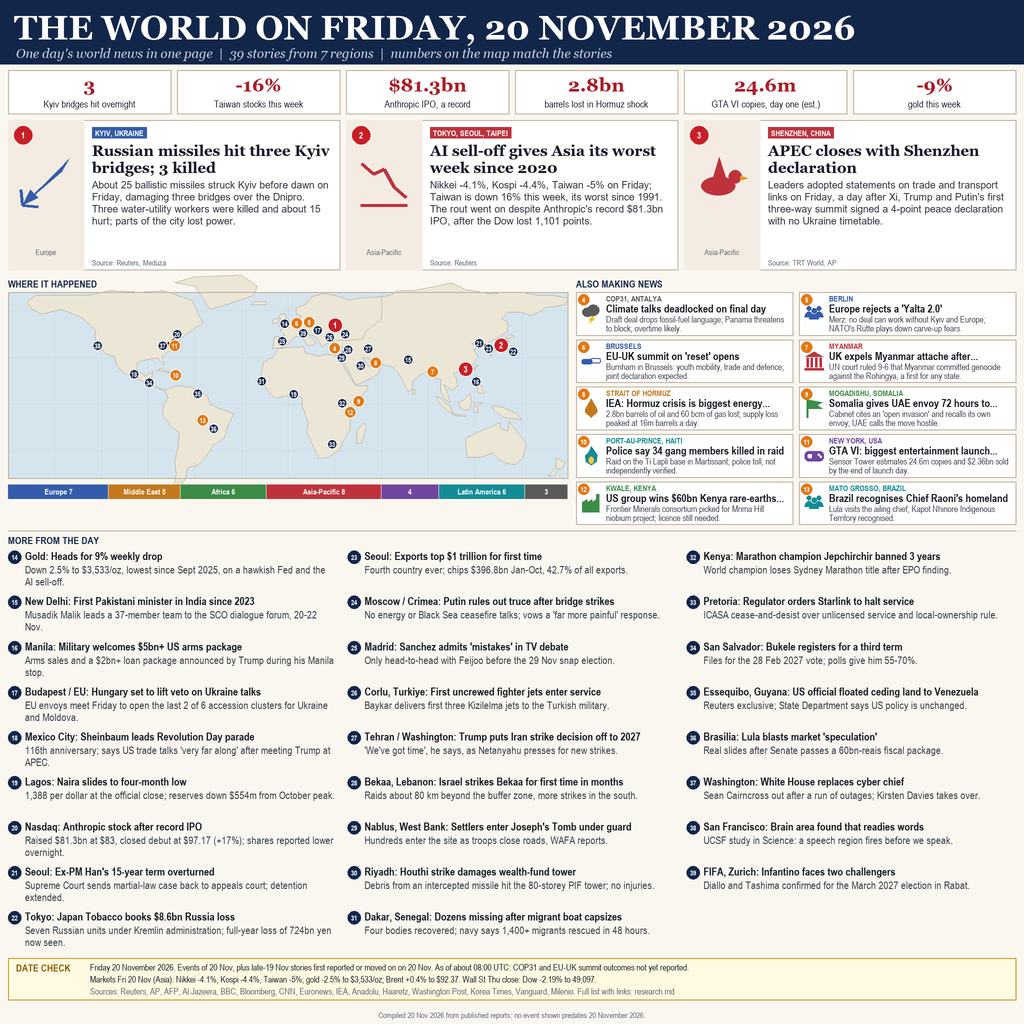
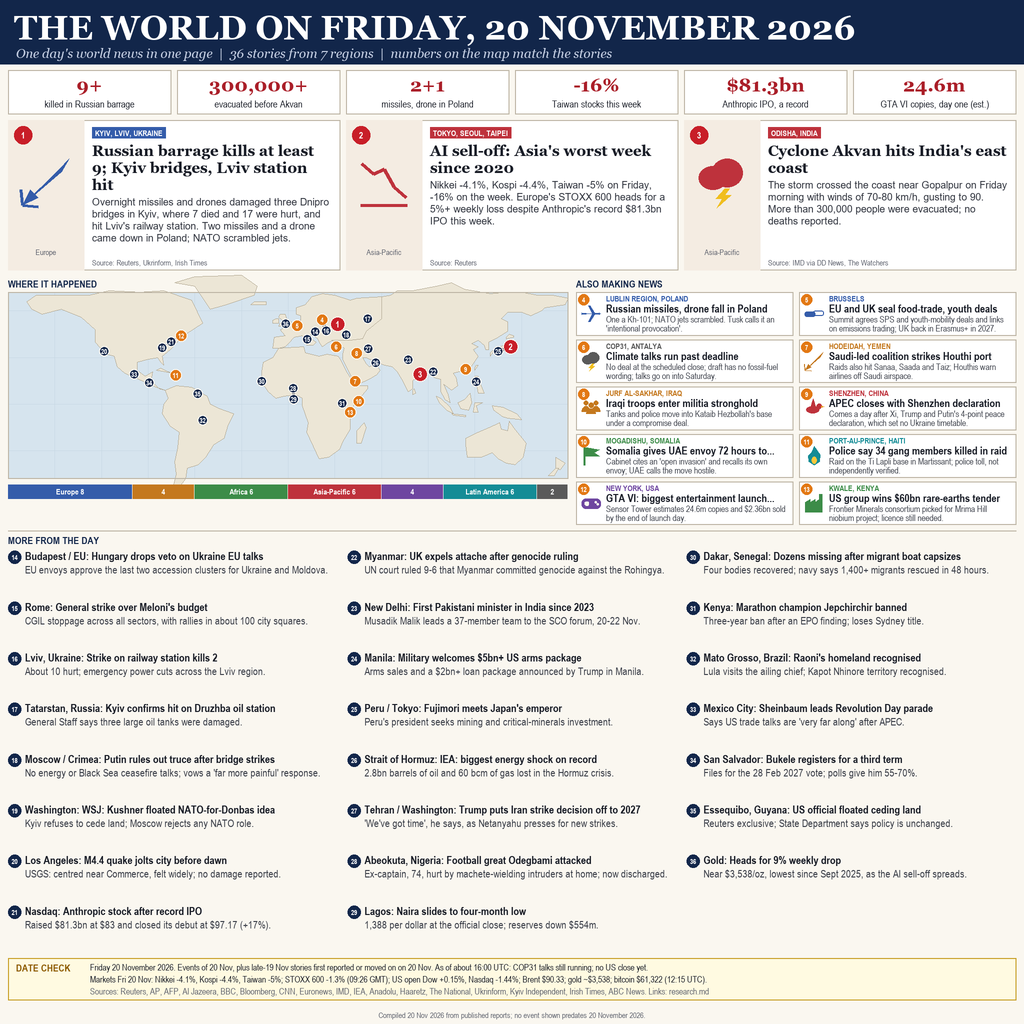
v2: afternoon update - Russian barrage and missiles in Poland, Cyclone Akvan, EU-UK deals, COP31 overtime; drop stale carry-overs

diff --git a/stories.py b/stories.py
@@ -1,45 +1,50 @@
 """The day's stories, Friday 20 November 2026, from research.md (sources and date evidence there).
 
 tier 1 = lead card, 2 = illustrated card, 3 = "more from the day" list.
-Leads are events of 20 Nov itself; late-19 Nov stories are kept only where they were
-first reported, or moved on, on 20 Nov, and are worded that way.
+v2 (about 16:00 UTC): leads are 20 Nov events; pending morning stories carry their outcome;
+weak late-19 Nov carry-overs dropped. Late-19 Nov stories kept only where first reported,
+or moved on, on 20 Nov, and worded that way.
 """
 
 STORIES = [
     # ---- leads
-    {"tier": 1, "region": "Europe", "place": "Kyiv, Ukraine", "lat": 50.45, "lon": 30.52, "icon": "missile",
-     "head": "Russian missiles hit three Kyiv bridges; 3 killed",
-     "detail": "About 25 ballistic missiles struck Kyiv before dawn on Friday, damaging three bridges over the Dnipro. Three water-utility workers were killed and about 15 hurt; parts of the city lost power.",
-     "src": "Reuters, Meduza"},
+    {"tier": 1, "region": "Europe", "place": "Kyiv, Lviv, Ukraine", "lat": 50.45, "lon": 30.52, "icon": "missile",
+     "head": "Russian barrage kills at least 9; Kyiv bridges, Lviv station hit",
+     "detail": "Overnight missiles and drones damaged three Dnipro bridges in Kyiv, where 7 died and 17 were hurt, and hit Lviv's railway station. Two missiles and a drone came down in Poland; NATO scrambled jets.",
+     "src": "Reuters, Ukrinform, Irish Times"},
     {"tier": 1, "region": "Asia-Pacific", "place": "Tokyo, Seoul, Taipei", "lat": 35.68, "lon": 139.69, "icon": "down",
-     "head": "AI sell-off gives Asia its worst week since 2020",
-     "detail": "Nikkei -4.1%, Kospi -4.4%, Taiwan -5% on Friday; Taiwan is down 16% this week, its worst since 1991. The rout went on despite Anthropic's record $81.3bn IPO, after the Dow lost 1,101 points.",
+     "head": "AI sell-off: Asia's worst week since 2020",
+     "detail": "Nikkei -4.1%, Kospi -4.4%, Taiwan -5% on Friday, -16% on the week. Europe's STOXX 600 heads for a 5%+ weekly loss despite Anthropic's record $81.3bn IPO this week.",
      "src": "Reuters"},
-    {"tier": 1, "region": "Asia-Pacific", "place": "Shenzhen, China", "lat": 22.54, "lon": 114.06, "icon": "dove",
-     "head": "APEC closes with Shenzhen declaration",
-     "detail": "Leaders adopted statements on trade and transport links on Friday, a day after Xi, Trump and Putin's first three-way summit signed a 4-point peace declaration with no Ukraine timetable.",
-     "src": "TRT World, AP"},
+    {"tier": 1, "region": "Asia-Pacific", "place": "Odisha, India", "lat": 19.26, "lon": 84.91, "icon": "storm",
+     "head": "Cyclone Akvan hits India's east coast",
+     "detail": "The storm crossed the coast near Gopalpur on Friday morning with winds of 70-80 km/h, gusting to 90. More than 300,000 people were evacuated; no deaths reported.",
+     "src": "IMD via DD News, The Watchers"},
     # ---- illustrated cards
-    {"tier": 2, "region": "Global", "place": "COP31, Antalya", "lat": 36.89, "lon": 30.71, "icon": "storm",
-     "head": "Climate talks deadlocked on final day",
-     "detail": "Draft deal drops fossil-fuel language; Panama threatens to block; overtime likely.",
-     "src": "Rappler"},
-    {"tier": 2, "region": "Europe", "place": "Berlin", "lat": 52.52, "lon": 13.40, "icon": "people",
-     "head": "Europe rejects a 'Yalta 2.0'",
-     "detail": "Merz: no deal can work without Kyiv and Europe; NATO's Rutte plays down carve-up fears.",
-     "src": "Euronews"},
+    {"tier": 2, "region": "Europe", "place": "Lublin region, Poland", "lat": 50.60, "lon": 22.70, "icon": "plane",
+     "head": "Russian missiles, drone fall in Poland",
+     "detail": "One a Kh-101; NATO jets scrambled. Tusk calls it an 'intentional provocation'.",
+     "src": "Irish Times"},
     {"tier": 2, "region": "Europe", "place": "Brussels", "lat": 50.85, "lon": 4.35, "icon": "handshake",
-     "head": "EU-UK summit on 'reset' opens",
-     "detail": "Burnham in Brussels: youth mobility, trade and defence; joint declaration expected.",
-     "src": "Bloomberg"},
-    {"tier": 2, "region": "Asia-Pacific", "place": "Myanmar", "lat": 20.80, "lon": 93.00, "icon": "court",
-     "head": "UK expels Myanmar attache after genocide ruling",
-     "detail": "UN court ruled 9-6 that Myanmar committed genocide against the Rohingya, a first for any state.",
-     "src": "Al Jazeera"},
-    {"tier": 2, "region": "Middle East", "place": "Strait of Hormuz", "lat": 26.57, "lon": 56.25, "icon": "oil",
-     "head": "IEA: Hormuz crisis is biggest energy shock ever",
-     "detail": "2.8bn barrels of oil and 60 bcm of gas lost; supply loss peaked at 16m barrels a day.",
-     "src": "IEA via Xinhua"},
+     "head": "EU and UK seal food-trade, youth deals",
+     "detail": "Summit agrees SPS and youth-mobility deals and links on emissions trading; UK back in Erasmus+ in 2027.",
+     "src": "EU-UK joint statement, Reuters"},
+    {"tier": 2, "region": "Global", "place": "COP31, Antalya", "lat": 36.89, "lon": 30.71, "icon": "storm",
+     "head": "Climate talks run past deadline",
+     "detail": "No deal at the scheduled close; draft has no fossil-fuel wording; talks go on into Saturday.",
+     "src": "Reuters, Rappler"},
+    {"tier": 2, "region": "Middle East", "place": "Hodeidah, Yemen", "lat": 14.80, "lon": 42.95, "icon": "missile",
+     "head": "Saudi-led coalition strikes Houthi port",
+     "detail": "Raids also hit Sanaa, Saada and Taiz; Houthis warn airlines off Saudi airspace.",
+     "src": "AP, Gulf News"},
+    {"tier": 2, "region": "Middle East", "place": "Jurf al-Sakhar, Iraq", "lat": 32.85, "lon": 44.10, "icon": "people",
+     "head": "Iraqi troops enter militia stronghold",
+     "detail": "Tanks and police move into Kataib Hezbollah's base under a compromise deal.",
+     "src": "The National"},
+    {"tier": 2, "region": "Asia-Pacific", "place": "Shenzhen, China", "lat": 22.54, "lon": 114.06, "icon": "dove",
+     "head": "APEC closes with Shenzhen declaration",
+     "detail": "Comes a day after Xi, Trump and Putin's 4-point peace declaration, which set no Ukraine timetable.",
+     "src": "TRT World, AP"},
     {"tier": 2, "region": "Africa", "place": "Mogadishu, Somalia", "lat": 2.05, "lon": 45.32, "icon": "flag",
      "head": "Somalia gives UAE envoy 72 hours to leave",
      "detail": "Cabinet cites an 'open invasion' and recalls its own envoy; UAE calls the move hostile.",
@@ -52,107 +57,93 @@ STORIES = [
      "head": "GTA VI: biggest entertainment launch (est.)",
      "detail": "Sensor Tower estimates 24.6m copies and $2.36bn sold by the end of launch day.",
      "src": "The Week"},
-    {"tier": 2, "region": "Africa", "place": "Kwale, Kenya", "lat": -4.48, "lon": 39.26, "icon": "factory",
-     "head": "US group wins $60bn Kenya rare-earths tender",
-     "detail": "Frontier Minerals consortium picked for Mrima Hill niobium project; licence still needed.",
-     "src": "BBC, Nile Post"},
-    {"tier": 2, "region": "Latin America", "place": "Mato Grosso, Brazil", "lat": -10.23, "lon": -54.98, "icon": "people",
-     "head": "Brazil recognises Chief Raoni's homeland",
-     "detail": "Lula visits the ailing chief; Kapot Nhinore Indigenous Territory recognised.",
-     "src": "AP"},
     # ---- more from the day
-    {"tier": 3, "region": "Global", "place": "Gold", "lat": 51.51, "lon": -0.09, "icon": "down",
-     "head": "Heads for 9% weekly drop",
-     "detail": "Down 2.5% to $3,533/oz, lowest since Sept 2025, on a hawkish Fed and the AI sell-off.", "src": "Reuters"},
-    {"tier": 3, "region": "Asia-Pacific", "place": "New Delhi", "lat": 28.61, "lon": 77.21, "icon": "people",
-     "head": "First Pakistani minister in India since 2023",
-     "detail": "Musadik Malik leads a 37-member team to the SCO dialogue forum, 20-22 Nov.", "src": "Anadolu"},
-    {"tier": 3, "region": "Asia-Pacific", "place": "Manila", "lat": 14.60, "lon": 120.98, "icon": "plane",
-     "head": "Military welcomes $5bn+ US arms package",
-     "detail": "Arms sales and a $2bn+ loan package announced by Trump during his Manila stop.", "src": "Daily Tribune"},
     {"tier": 3, "region": "Europe", "place": "Budapest / EU", "lat": 47.50, "lon": 19.04, "icon": "vote",
-     "head": "Hungary set to lift veto on Ukraine talks",
-     "detail": "EU envoys meet Friday to open the last 2 of 6 accession clusters for Ukraine and Moldova.", "src": "Euronews"},
-    {"tier": 3, "region": "Latin America", "place": "Mexico City", "lat": 19.43, "lon": -99.13, "icon": "flag",
-     "head": "Sheinbaum leads Revolution Day parade",
-     "detail": "116th anniversary; says US trade talks 'very far along' after meeting Trump at APEC.", "src": "Milenio"},
-    {"tier": 3, "region": "Africa", "place": "Lagos", "lat": 6.52, "lon": 3.38, "icon": "down",
-     "head": "Naira slides to four-month low",
-     "detail": "1,388 per dollar at the official close; reserves down $554m from October peak.", "src": "Vanguard"},
-    {"tier": 3, "region": "North America", "place": "Nasdaq", "lat": 40.76, "lon": -73.98, "icon": "chip",
-     "head": "Anthropic stock after record IPO",
-     "detail": "Raised $81.3bn at $83, closed debut at $97.17 (+17%); shares reported lower overnight.", "src": "CNN"},
-    {"tier": 3, "region": "Asia-Pacific", "place": "Seoul", "lat": 37.57, "lon": 126.98, "icon": "court",
-     "head": "Ex-PM Han's 15-year term overturned",
-     "detail": "Supreme Court sends martial-law case back to appeals court; detention extended.", "src": "Korea Times"},
-    {"tier": 3, "region": "Asia-Pacific", "place": "Tokyo", "lat": 35.68, "lon": 139.69, "icon": "factory",
-     "head": "Japan Tobacco books $8.6bn Russia loss",
-     "detail": "Seven Russian units under Kremlin administration; full-year loss of 724bn yen now seen.", "src": "Reuters"},
-    {"tier": 3, "region": "Asia-Pacific", "place": "Seoul", "lat": 37.57, "lon": 126.98, "icon": "ship",
-     "head": "Exports top $1 trillion for first time",
-     "detail": "Fourth country ever; chips $396.8bn Jan-Oct, 42.7% of all exports.", "src": "Seoul Economic Daily"},
+     "head": "Hungary drops veto on Ukraine EU talks",
+     "detail": "EU envoys approve the last two accession clusters for Ukraine and Moldova.", "src": "Euronews"},
+    {"tier": 3, "region": "Europe", "place": "Rome", "lat": 41.89, "lon": 12.50, "icon": "people",
+     "head": "General strike over Meloni's budget",
+     "detail": "CGIL stoppage across all sectors, with rallies in about 100 city squares.", "src": "Reuters"},
+    {"tier": 3, "region": "Europe", "place": "Lviv, Ukraine", "lat": 49.82, "lon": 23.98, "icon": "fire",
+     "head": "Strike on railway station kills 2",
+     "detail": "About 10 hurt; emergency power cuts across the Lviv region.", "src": "Ukrinform"},
+    {"tier": 3, "region": "Europe", "place": "Tatarstan, Russia", "lat": 55.00, "lon": 51.00, "icon": "oil",
+     "head": "Kyiv confirms hit on Druzhba oil station",
+     "detail": "General Staff says three large oil tanks were damaged.", "src": "Kyiv Independent"},
     {"tier": 3, "region": "Europe", "place": "Moscow / Crimea", "lat": 45.31, "lon": 36.51, "icon": "missile",
      "head": "Putin rules out truce after bridge strikes",
      "detail": "No energy or Black Sea ceasefire talks; vows a 'far more painful' response.", "src": "Kyiv Independent"},
-    {"tier": 3, "region": "Europe", "place": "Madrid", "lat": 40.42, "lon": -3.70, "icon": "vote",
-     "head": "Sanchez admits 'mistakes' in TV debate",
-     "detail": "Only head-to-head with Feijoo before the 29 Nov snap election.", "src": "AFP"},
-    {"tier": 3, "region": "Europe", "place": "Corlu, Turkiye", "lat": 41.16, "lon": 27.80, "icon": "plane",
-     "head": "First uncrewed fighter jets enter service",
-     "detail": "Baykar delivers first three Kizilelma jets to the Turkish military.", "src": "AeroTime"},
+    {"tier": 3, "region": "North America", "place": "Washington", "lat": 38.90, "lon": -77.04, "icon": "handshake",
+     "head": "WSJ: Kushner floated NATO-for-Donbas idea",
+     "detail": "Kyiv refuses to cede land; Moscow rejects any NATO role.", "src": "WSJ via Kyiv Post"},
+    {"tier": 3, "region": "North America", "place": "Los Angeles", "lat": 34.00, "lon": -118.16, "icon": "quake",
+     "head": "M4.4 quake jolts city before dawn",
+     "detail": "USGS: centred near Commerce, felt widely; no damage reported.", "src": "ABC News"},
+    {"tier": 3, "region": "North America", "place": "Nasdaq", "lat": 40.76, "lon": -73.98, "icon": "chip",
+     "head": "Anthropic stock after record IPO",
+     "detail": "Raised $81.3bn at $83 and closed its debut at $97.17 (+17%).", "src": "CNN"},
+    {"tier": 3, "region": "Asia-Pacific", "place": "Myanmar", "lat": 20.80, "lon": 93.00, "icon": "court",
+     "head": "UK expels attache after genocide ruling",
+     "detail": "UN court ruled 9-6 that Myanmar committed genocide against the Rohingya.", "src": "Al Jazeera"},
+    {"tier": 3, "region": "Asia-Pacific", "place": "New Delhi", "lat": 28.61, "lon": 77.21, "icon": "people",
+     "head": "First Pakistani minister in India since 2023",
+     "detail": "Musadik Malik leads a 37-member team to the SCO forum, 20-22 Nov.", "src": "Anadolu"},
+    {"tier": 3, "region": "Asia-Pacific", "place": "Manila", "lat": 14.60, "lon": 120.98, "icon": "plane",
+     "head": "Military welcomes $5bn+ US arms package",
+     "detail": "Arms sales and a $2bn+ loan package announced by Trump in Manila.", "src": "Daily Tribune"},
+    {"tier": 3, "region": "Latin America", "place": "Peru / Tokyo", "lat": 35.30, "lon": 138.60, "icon": "handshake",
+     "head": "Fujimori meets Japan's emperor",
+     "detail": "Peru's president seeks mining and critical-minerals investment.", "src": "Rio Times"},
+    {"tier": 3, "region": "Middle East", "place": "Strait of Hormuz", "lat": 26.57, "lon": 56.25, "icon": "oil",
+     "head": "IEA: biggest energy shock on record",
+     "detail": "2.8bn barrels of oil and 60 bcm of gas lost in the Hormuz crisis.", "src": "IEA via Xinhua"},
     {"tier": 3, "region": "Middle East", "place": "Tehran / Washington", "lat": 35.69, "lon": 51.39, "icon": "missile",
      "head": "Trump puts Iran strike decision off to 2027",
      "detail": "'We've got time', he says, as Netanyahu presses for new strikes.", "src": "Haaretz"},
-    {"tier": 3, "region": "Middle East", "place": "Bekaa, Lebanon", "lat": 33.85, "lon": 35.90, "icon": "fire",
-     "head": "Israel strikes Bekaa for first time in months",
-     "detail": "Raids about 80 km beyond the buffer zone, more strikes in the south.", "src": "Haaretz"},
-    {"tier": 3, "region": "Middle East", "place": "Nablus, West Bank", "lat": 32.21, "lon": 35.28, "icon": "people",
-     "head": "Settlers enter Joseph's Tomb under guard",
-     "detail": "Hundreds enter the site as troops close roads, WAFA reports.", "src": "WAFA"},
-    {"tier": 3, "region": "Middle East", "place": "Riyadh", "lat": 24.76, "lon": 46.64, "icon": "missile",
-     "head": "Houthi strike damages wealth-fund tower",
-     "detail": "Debris from an intercepted missile hit the 80-storey PIF tower; no injuries.", "src": "The National"},
+    {"tier": 2, "region": "Africa", "place": "Kwale, Kenya", "lat": -4.48, "lon": 39.26, "icon": "factory",
+     "head": "US group wins $60bn rare-earths tender",
+     "detail": "Frontier Minerals consortium picked for Mrima Hill niobium project; licence still needed.", "src": "BBC, Nile Post"},
+    {"tier": 3, "region": "Africa", "place": "Abeokuta, Nigeria", "lat": 7.16, "lon": 3.35, "icon": "ball",
+     "head": "Football great Odegbami attacked",
+     "detail": "Ex-captain, 74, hurt by machete-wielding intruders at home; now discharged.", "src": "Daily Trust"},
+    {"tier": 3, "region": "Africa", "place": "Lagos", "lat": 6.52, "lon": 3.38, "icon": "down",
+     "head": "Naira slides to four-month low",
+     "detail": "1,388 per dollar at the official close; reserves down $554m.", "src": "Vanguard"},
     {"tier": 3, "region": "Africa", "place": "Dakar, Senegal", "lat": 14.65, "lon": -17.13, "icon": "ship",
      "head": "Dozens missing after migrant boat capsizes",
      "detail": "Four bodies recovered; navy says 1,400+ migrants rescued in 48 hours.", "src": "Reuters"},
     {"tier": 3, "region": "Africa", "place": "Kenya", "lat": 0.20, "lon": 35.10, "icon": "trophy",
-     "head": "Marathon champion Jepchirchir banned 3 years",
-     "detail": "World champion loses Sydney Marathon title after EPO finding.", "src": "Al Jazeera"},
-    {"tier": 3, "region": "Africa", "place": "Pretoria", "lat": -25.75, "lon": 28.19, "icon": "space",
-     "head": "Regulator orders Starlink to halt service",
-     "detail": "ICASA cease-and-desist over unlicensed service and local-ownership rule.", "src": "Broadcast Media Africa"},
+     "head": "Marathon champion Jepchirchir banned",
+     "detail": "Three-year ban after an EPO finding; loses Sydney title.", "src": "Al Jazeera"},
+    {"tier": 3, "region": "Latin America", "place": "Mato Grosso, Brazil", "lat": -10.23, "lon": -54.98, "icon": "people",
+     "head": "Raoni's homeland recognised",
+     "detail": "Lula visits the ailing chief; Kapot Nhinore territory recognised.", "src": "AP"},
+    {"tier": 3, "region": "Latin America", "place": "Mexico City", "lat": 19.43, "lon": -99.13, "icon": "flag",
+     "head": "Sheinbaum leads Revolution Day parade",
+     "detail": "Says US trade talks are 'very far along' after APEC.", "src": "Milenio"},
     {"tier": 3, "region": "Latin America", "place": "San Salvador", "lat": 13.69, "lon": -89.22, "icon": "vote",
      "head": "Bukele registers for a third term",
      "detail": "Files for the 28 Feb 2027 vote; polls give him 55-70%.", "src": "Reuters"},
     {"tier": 3, "region": "Latin America", "place": "Essequibo, Guyana", "lat": 6.80, "lon": -58.16, "icon": "flag",
-     "head": "US official floated ceding land to Venezuela",
-     "detail": "Reuters exclusive; State Department says US policy is unchanged.", "src": "Reuters"},
-    {"tier": 3, "region": "Latin America", "place": "Brasilia", "lat": -15.79, "lon": -47.88, "icon": "money",
-     "head": "Lula blasts market 'speculation'",
-     "detail": "Real slides after Senate passes a 60bn-reais fiscal package.", "src": "Reuters"},
-    {"tier": 3, "region": "North America", "place": "Washington", "lat": 38.90, "lon": -77.04, "icon": "chip",
-     "head": "White House replaces cyber chief",
-     "detail": "Sean Cairncross out after a run of outages; Kirsten Davies takes over.", "src": "Washington Post"},
-    {"tier": 3, "region": "North America", "place": "San Francisco", "lat": 37.76, "lon": -122.46, "icon": "flask",
-     "head": "Brain area found that readies words",
-     "detail": "UCSF study in Science: a speech region fires before we speak.", "src": "Interesting Engineering"},
-    {"tier": 3, "region": "Global", "place": "FIFA, Zurich", "lat": 47.38, "lon": 8.57, "icon": "ball",
-     "head": "Infantino faces two challengers",
-     "detail": "Diallo and Tashima confirmed for the March 2027 election in Rabat.", "src": "Al Jazeera"},
+     "head": "US official floated ceding land",
+     "detail": "Reuters exclusive; State Department says policy is unchanged.", "src": "Reuters"},
+    {"tier": 3, "region": "Global", "place": "Gold", "lat": 51.51, "lon": -0.09, "icon": "down",
+     "head": "Heads for 9% weekly drop",
+     "detail": "Near $3,538/oz, lowest since Sept 2025, as the AI sell-off spreads.", "src": "Reuters"},
 ]
 
 KEYFIGS = [
-    ("3", "Kyiv bridges hit overnight"),
+    ("9+", "killed in Russian barrage"),
+    ("300,000+", "evacuated before Akvan"),
+    ("2+1", "missiles, drone in Poland"),
     ("-16%", "Taiwan stocks this week"),
     ("$81.3bn", "Anthropic IPO, a record"),
-    ("2.8bn", "barrels lost in Hormuz shock"),
     ("24.6m", "GTA VI copies, day one (est.)"),
-    ("-9%", "gold this week"),
 ]
 
 DATE_LINE = ("Friday 20 November 2026. Events of 20 Nov, plus late-19 Nov stories first reported or moved on "
-             "on 20 Nov. As of about 08:00 UTC: COP31 and EU-UK summit outcomes not yet reported.")
-MARKETS = ("Markets Fri 20 Nov (Asia): Nikkei -4.1%, Kospi -4.4%, Taiwan -5%; gold -2.5% to $3,533/oz; "
-           "Brent +0.4% to $92.37. Wall St Thu close: Dow -2.19% to 49,097.")
-SOURCES = ("Reuters, AP, AFP, Al Jazeera, BBC, Bloomberg, CNN, Euronews, IEA, Anadolu, Haaretz, "
-           "Washington Post, Korea Times, Vanguard, Milenio. Full list with links: research.md")
+             "on 20 Nov. As of about 16:00 UTC: COP31 talks still running; no US close yet.")
+MARKETS = ("Markets Fri 20 Nov: Nikkei -4.1%, Kospi -4.4%, Taiwan -5%; STOXX 600 -1.3% (09:26 GMT); US open "
+           "Dow +0.15%, Nasdaq -1.44%; Brent $90.33; gold ~$3,538; bitcoin $61,322 (12:15 UTC).")
+SOURCES = ("Reuters, AP, AFP, Al Jazeera, BBC, Bloomberg, CNN, Euronews, IMD, IEA, Anadolu, Haaretz, "
+           "The National, Ukrinform, Kyiv Independent, Irish Times, ABC News. Links: research.md")

diff --git a/render.py b/render.py
@@ -288,6 +288,7 @@ def tag(d, x, y, s):
 def render(out):
     img = Image.new("RGB", (W * S, H * S), PAPER)
     d = ImageDraw.Draw(img)
+    STORIES.sort(key=lambda s: s["tier"])  # stable: numbers run leads, cards, list
     for i, s in enumerate(STORIES, 1):
         s["n"] = i
     leads = [s for s in STORIES if s["tier"] == 1]

diff --git a/research.md b/research.md
@@ -92,3 +92,68 @@ Fri 20 Nov Asian session (Reuters via MarketScreener, URL in id 5): Nikkei -4.1%
 - Senegal (id 36): passenger count disputed (50 vs ~100); toll may rise.
 - Sanon verdict (id 48) sourced only to the Anadolu briefing and an Inquirer headline; no direct wire URL found.
 - Science item (id 51) is from a secondary outlet; journal and date (Science, 19 Nov) stated there but not checked against Science directly.
+
+## Update ~16:00 UTC 20 Nov
+
+Searched ~15:40-16:05 UTC 20 Nov 2026. "time seen" = when the item was read (UTC); outlet timestamps given where stated.
+
+### Outcomes
+
+| morning id | new status | source outlet | URL | time seen |
+|---|---|---|---|---|
+| 7 (COP31) | NO DEAL YET - OVERTIME. Official close 15:00 GMT passed; Bowen: "won't be leaving the rooms of Antalya until we have that consensus", talks through the night, negotiators expect Saturday. Thursday draft still latest: no fossil fuel language, $120bn adaptation target dropped, keeps 35% electricity-share-by-2035 goal. Panama threatens formal objection. Turkey separately claims $26bn+ in side deals (incl. preliminary $15bn China renewables deal) | Deccan Chronicle; Cyprus Mail (Reuters) | https://deccanchronicle.com/world/cop31-talks-run-overtime-as-nations-clash-over-fossil-fuel-future-2006354 ; https://cyprus-mail.com/2026/11/20/turkey-wins-26bn-in-deals-as-cop31-struggles-for-agreement | ~15:45 |
+| 25 (EU-UK summit) | DONE. Burnham, von der Leyen, Costa agree reset deals: agrifood/SPS (fewer border checks and certificates), youth mobility scheme for under-31s, progress on linking emissions trading schemes; joint statement sets timetable for entry into force; UK joins Erasmus+ from 2027; tuition-fee deal to be concluded within 6 months. Defence: no specific new item found. Scheme cap disputed (100k vs 200k) | TVP World (Reuters); The PIE News; Personnel Today | https://tvpworld.com/96585733/uk-eu-launch-reset-with-food-and-youth-mobility-deals ; https://thepienews.com/200k-uk-eu-youth-mobility-places-agreed-as-tuition-fee-decision-delayed/ | ~15:40 |
+| 26 (Hungary veto) | DONE. Hungary dropped its block on 20 Nov morning; Coreper (EU ambassadors) approved screening results for clusters 4 and 5 for Ukraine and Moldova. Formal opening at intergovernmental conferences, possibly December 2026 | European Pravda (Eurointegration); bne IntelliNews | https://www.eurointegration.com.ua/eng/news/2026/11/20/7250427/ ; https://www.intellinews.com/hungary-lifts-block-on-last-eu-accession-clusters-for-ukraine-moldova-486813/ | ~15:40 |
+| 4 (Kyiv bridges) | TOLL UP: Kyiv 7 dead, 17 injured (Klitschko / Patrol Police; Interfax-Ukraine 15:32 local = 13:32 UTC); at least 9 dead across Ukraine (Kyiv Independent). Bridges damaged: Podilsko-Voskresenskyi, Pivdennyi (Southern, hit again after 17 Nov), Darnytskyi. Air Force: 82 of 84 missiles and 380 drones downed. Also 2 killed at Lviv station (new id 56) | Interfax-Ukraine; Kyiv Independent | https://en.interfax.com.ua/news/general/1239968.html ; https://kyivindependent.com/russia-launches-mass-missile-attack-against-ukraine-after-putin-vows-revenge/ | ~15:45 |
+| 5 / 14 / 45 (markets) | Europe: STOXX 600 -1.3% to 630.22 at 09:26 GMT, heading for >5% weekly loss (worst since March); no close found yet. US open mixed: Dow slightly up, Nasdaq -1.4%. Gold extends fall (~$3,538). See Markets (latest) | Yahoo Finance (Reuters); Business Upturn | https://finance.yahoo.com/markets/world-indices/articles/european-shares-head-steepest-weekly-082527441.html ; https://businessupturn.com/usa/money/us-markets/us-stocks-mixed-at-open-as-nasdaq-falls-and-dow-edges-higher/ | ~15:50 |
+| 23 / 27 (Putin, Europe) | Context: Berlin Coalition of the Willing statement (19 Nov; Germany, France, UK, Ukraine) asked Russia for a winter energy truce; Putin rejected it the same day, then the overnight strikes came | Ukrinform | https://www.ukrinform.net/rubric-polytics/4186635-coalition-of-the-willing-leaders-urge-russia-to-agree-to-winter-energy-truce.html | ~15:55 |
+
+### New stories
+
+| id | rank | region | country/place | lat | lon | headline | detail | source outlet | source URL | date evidence |
+|---|---|---|---|---|---|---|---|---|---|---|
+| 52 | LEAD-CANDIDATE | Europe | Poland, Nowy Lipowiec (Lublin region, SE Poland) | 50.60 | 22.70 | Russian missiles and drone violate Polish airspace | 2 missiles (one a Kh-101) + jet drone came down in SE Poland; NATO jets scrambled; Tusk: "intentional provocation" | Irish Times | https://www.irishtimes.com/world/europe/2026/11/20/nato-jets-scrambled-after-russian-missiles-and-drone-hit-poland-during-attacks-on-ukraine/ | 20 Nov, first alerts 01:40 local; URL 2026/11/20 |
+| 53 | LEAD-CANDIDATE | Middle East | Yemen, Hodeidah | 14.80 | 42.95 | Saudi-led coalition strikes Yemen's Hodeidah port | "Special operation" also hits Sanaa, Saada, Taiz; Houthis warn airlines off Saudi airspace, threaten Jeddah | Local10 (AP) / Gulf News | https://www.local10.com/news/world/2026/11/20/saudi-arabia-attacks-yemens-houthis-and-intercepts-more-missiles-and-drones-and-other-mideast-news/ | Fri 20 Nov; URL 2026/11/20 |
+| 54 | SECONDARY | Asia-Pacific | India, Gopalpur (Odisha) | 19.26 | 84.91 | Cyclone Akvan hits Odisha; 300,000+ evacuated | Crossed coast near Gopalpur ~02:00-03:00 UTC as cyclonic storm, 70-80 km/h, gusts 90; no deaths reported | The Watchers / DD News | https://watchers.news/2026/11/20/cyclone-akvan-landfall-gopalpur-november-20-2026-deep-depression/ | Landfall 20 Nov ~07:30-08:30 IST |
+| 55 | SECONDARY | Middle East | Iraq, Jurf al-Sakhar (Babil) | 32.85 | 44.10 | Iraqi troops enter Kataib Hezbollah stronghold | Tanks, police deploy under compromise deal; PM al-Zaidi cites oil smuggling; group says it is not leaving | The National | https://www.thenationalnews.com/news/mena/2026/11/20/iraqi-security-forces-move-into-iran-backed-militia-stronghold-of-jurf-al-sakhar/ | Fri 20 Nov; URL 2026/11/20 |
+| 56 | SECONDARY | Europe | Ukraine, Lviv (Sknyliv station) | 49.82 | 23.98 | Russian strike on Lviv rail station kills 2 | Ticket terminal hit, ~10 hurt; emergency power cuts in Lviv region; same overnight barrage as Kyiv | Ukrinform | https://www.ukrinform.net/rubric-ato/4186678-two-killed-four-injured-in-russian-attack-on-railway-station-in-lviv.html | Morning 20 Nov |
+| 57 | SECONDARY | Europe | Italy, Rome | 41.89 | 12.50 | Italy hit by general strike over Meloni budget | CGIL nationwide strike, all sectors; rallies in ~100 squares; second national stoppage in weeks | Global Banking & Finance (Reuters) | https://www.globalbankingandfinance.com/thousands-protest-across-italy-strike-over-wages-public/ | Strike day Fri 20 Nov |
+| 58 | SECONDARY | North America | USA, Commerce / Los Angeles | 34.00 | -118.16 | M4.4 quake jolts Los Angeles before dawn | USGS: 03:25 PT near Commerce, ~10 mi deep; felt to Lancaster and Poway; no damage reported | ABC News | https://abcnews.com/US/magnitude-44-earthquake-hits-downtown-los-angeles/story?id=138315998 | 20 Nov 03:25 PT (11:25 UTC) |
+| 59 | also | Europe | USA / Ukraine (envoy talks) | 38.90 | -77.04 | WSJ: Kushner floated NATO for Ukraine for Donbas | Envoys raised membership if Kyiv cedes territory; Kyiv refuses to cede, Moscow rejects any NATO role | Kyiv Post | https://www.kyivpost.com/post/90709 | WSJ report 19-20 Nov; widely carried 20 Nov |
+| 60 | also | Europe | Russia, Tatarstan (Druzhba pumping station) | 55.00 | 51.00 | Ukraine confirms strike on Druzhba oil station | General Staff: 19 Nov hit damaged 3 large oil storage tanks in Tatarstan | Kyiv Independent | https://kyivindependent.com/ukraine-strikes-key-druzhba-oil-pipeline-station-in-russias-tatarstan-general-staff-confirms | Strike 19 Nov; confirmed 20 Nov |
+| 61 | also | Africa | Nigeria, Abeokuta (Ogun) | 7.16 | 3.35 | Football great Odegbami attacked with machetes | Ex-captain, 74, hurt by ~3 intruders at home ~02:30; police investigating; discharged from hospital | Daily Trust | https://dailytrust.com/breaking-armed-men-attack-football-legend-segun-odegbami-inside-abeokuta-residence/ | Fri 20 Nov ~02:30 local |
+| 62 | also | Latin America | Peru / Japan, Tokyo | 35.68 | 139.69 | Peru's President Fujimori meets Japan's emperor | Received by Naruhito, then PM Takaichi; seeks mining, critical-minerals investment; no deals signed | Rio Times | https://www.riotimesonline.com/peru-fujimori-meets-emperor-naruhito-tokyo-2026 | Fri 20 Nov |
+| 63 | also | Middle East | Israel, Jerusalem | 31.78 | 35.22 | Eisenkot threatens "emergency" minority government | If broad coalition fails; mandate ends next month; Netanyahu presses for unity government | Times of Israel | https://www.timesofisrael.com/liveblog-november-20-2026/ | Liveblog 20 Nov (remark may be 19 Nov) |
+
+Region counts (new): Europe 5 (52,56,57,59,60), Middle East 3 (53,55,63), Asia-Pacific 1 (54), North America 1 (58), Africa 1 (61), Latin America 1 (62). Total 12.
+
+### Markets (latest)
+
+Europe: STOXX 600 -1.3% to 630.22 at 09:26 GMT, 6-week low, on track for >5% weekly loss; DAX -1.3% (Reuters via Yahoo Finance); official close not found. US open ~14:35 UTC (Business Upturn): Dow +0.15% to 49,171.43, S&P 500 -0.50% to 7,140.20, Nasdaq -1.44% to 23,536.28; Nvidia ~-3% after open (StockTitan); US 10-yr yield 4.992% at 10:59 UTC (stockinvest.us); US close not available yet. Brent -1.79% to $90.33, WTI -1.95% to $81.59 at 10:32 GMT (Reuters via 5paisa). Gold ~$3,538/oz after 14-month low near $3,532 (investorideas daily report; Trading Economics shows $3,575.62, -1.39%; figures differ by time). Bitcoin $61,321.59 at 12:15 UTC (7:15 ET), -3.8% on day, -24.9% on month (Fortune: https://fortune.com/article/price-of-bitcoin-11-20-2026/).
+
+### Key figures (new)
+
+| value | label | story id |
+|---|---|---|
+| 300,000+ | Evacuated ahead of Cyclone Akvan (chief secretary: 370,000) | 54 |
+| 2 + 1 | Russian missiles + drone in Polish airspace | 52 |
+| 7 | Dead in Kyiv bridge strikes (3 this morning) | 4 |
+| $26bn+ | Side deals Turkey claims as COP31 host | 7 |
+| $61,322 | Bitcoin, down ~25% in a month | markets |
+| -5%+ | STOXX 600 this week (worst since March) | markets |
+
+### Caveats
+
+- COP31: no final outcome as of ~16:00 UTC; do NOT claim a deal or a failure. Morning Euronews line "COP31 ends with several climate wins" was wrong or premature.
+- EU-UK youth mobility cap: PIE News says 200k places, Personnel Today says 100,000; unresolved, avoid a number. No defence item confirmed from the summit.
+- Akvan: landfall 02:00-03:00 UTC per IMD as cited by The Watchers; DD News/Outlook give the process as ~08:00-11:20 IST (02:30-05:50 UTC). Safe wording: "morning of 20 Nov". Strength at landfall = cyclonic storm (weakened from severe). Free Press Journal wrongly says Saturday. No deaths reported so far.
+- Kyiv toll changed through the day (3 -> 6 -> 7 in Kyiv; 8-9 nationwide). Missile counts differ: Air Force 84 missiles; Euromaidan Press "over 110 missiles"; drones ~380-404.
+- Poland (52): coordinates approximate (exact Nowy Lipowiec location not checked); village spellings differ by outlet.
+- Hodeidah (53): Houthi claim that a Saudi strike on a civilian boat killed 19 is unverified; left out.
+- Jurf al-Sakhar (55): accounts disagree on whether Kataib Hezbollah actually withdraws.
+- Italy strike (57): source is a Reuters reprint on an aggregator; no turnout figure.
+- Tatarstan (60): exact station not named in what I saw; coordinates are a regional placeholder.
+- Eisenkot (63): the "emergency government" remark also appears on the 19 Nov liveblog; may be a 19 Nov statement.
+- Kushner (59): WSJ original paywalled; based on Kyiv Post and others relaying it.
+- Search summaries, not full article reads, were used for most items; headline facts were cross-checked across 2+ outlets where possible.
+- Not found / dropped: no bigger sourced 20 Nov Africa or Latin America story than those listed; Colombia Planadas truck bomb is 1 Nov (old); Guayaquil quake is 19 Nov (M5.1, no damage); Chase cyberattack is 19 Nov; Trump noon ET press conference had not happened at search time; Brazil markets closed 20 Nov (Black Consciousness Day).
